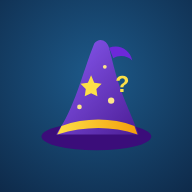
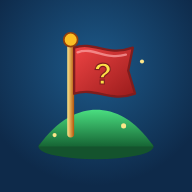
Ново име „Знаменосци“ и коледен дизайн от 1 декември до 6 януари
- Името на играта е сменено навсякъде, където се вижда: заглавия, манифест,
  имейли до родителите, поверителност, админ панел, README. Ключовете в
  localStorage и заглавките X-Quizzard остават, за да не се губят настройките.
- Ново лого и иконки със знаме вместо магьосническа шапка.
- season.js включва коледна тема сам през празниците (?season=xmas за преглед):
  сняг, светлини, шапка на логото, червено-зелени бутони, поздрав и „Джингъл белс“.

Claude-Session: https://claude.ai/code/session_01FRu3mSU7W2hqHJyDrDa8pC

Changed region(s): [[0.1875, 0.1562, 0.8125, 0.8438], [0.7188, 0.3125, 0.75, 0.3438]]

diff --git a/public/client.js b/public/client.js
@@ -1,4 +1,4 @@
-// Quizzard клиент: екрани, карта (SVG), въпроси, анимации и звуци.
+// Знаменосци клиент: екрани, карта (SVG), въпроси, анимации и звуци.
 // Сървърът решава всичко; клиентът само показва състоянието и изпраща ходове.
 const $ = (s) => document.querySelector(s);
 const $$ = (s) => [...document.querySelectorAll(s)];
@@ -77,9 +77,12 @@ const Sound = {
       case 'win': [523, 523, 523, 659, 784, 659, 784, 1047].forEach((f, i) => T(f, i === 7 ? 0.8 : 0.16, { type: 'square', at: i * 0.15, vol: 0.06 })); break;
     }
   },
-  // Кратка средновековна мелодия (ре дорийски), тиха, на кръг
-  MEL: [62, 65, 69, 67, 65, 64, 62, 0, 60, 64, 67, 65, 64, 62, 60, 0, 62, 65, 69, 72, 71, 69, 67, 0, 69, 67, 65, 64, 62, 64, 62, 0],
-  BASS: [38, 36, 41, 38],
+  // Кратка средновековна мелодия (ре дорийски), тиха, на кръг; през празниците (season.js) — „Джингъл белс“
+  MEL: document.documentElement.dataset.season === 'xmas'
+    ? [64, 64, 64, 0, 64, 64, 64, 0, 64, 67, 60, 62, 64, 0, 0, 0, 65, 65, 65, 65, 65, 64, 64, 64, 64, 62, 62, 64, 62, 0, 67, 0,
+      64, 64, 64, 0, 64, 64, 64, 0, 64, 67, 60, 62, 64, 0, 0, 0, 65, 65, 65, 65, 65, 64, 64, 64, 67, 67, 65, 62, 60, 0, 0, 0]
+    : [62, 65, 69, 67, 65, 64, 62, 0, 60, 64, 67, 65, 64, 62, 60, 0, 62, 65, 69, 72, 71, 69, 67, 0, 69, 67, 65, 64, 62, 64, 62, 0],
+  BASS: document.documentElement.dataset.season === 'xmas' ? [36, 41, 43, 36] : [38, 36, 41, 38],
   startMusic() {
     if (!this.music || this.musicTimer || !this.ac()) return;
     const hz = (m) => 440 * 2 ** ((m - 69) / 12);
@@ -174,7 +177,7 @@ $('#btnExit').onclick = () => { if (state?.phase === 'ended') send({ t: 'leave' 
 $('#leaveNo').onclick = () => $('#leaveOverlay').classList.add('hidden');
 $('#leaveYes').onclick = () => { $('#leaveOverlay').classList.add('hidden'); send({ t: 'leave' }); };
 $('#btnRules').onclick = () => {
-  openOverlay(`<div class="mhead"><h3>📜 Как се играе Quizzard?</h3></div><div class="mbody rules"><ol>
+  openOverlay(`<div class="mhead"><h3>📜 Как се играе „Знаменосци“?</h3></div><div class="mbody rules"><ol>
     <li>🏰 <b>Столица.</b> Всеки избира своята столица. Тя носи <b>1000 точки</b> и има <b>3 кули</b>.</li>
     <li>🗺 <b>Рунд 1: Завладяване.</b> Всички отговарят на въпрос с 4 отговора. Който познае, избира свободна област до своите. Всяка област носи <b>300 точки</b>.</li>
     <li>🎯 Ако познаят няколко, идва <b>въпрос с число</b>. Най-близкият взима 2 области, другите по 1. При еднакъв отговор печели по-бързият.</li>
@@ -686,7 +689,7 @@ const isIOS = /iphone|ipad|ipod/i.test(navigator.userAgent) && !window.navigator
 if (isIOS) $('#btnInstall').classList.remove('hidden');
 $('#btnInstall').onclick = async () => {
   if (installEvt) { installEvt.prompt(); await installEvt.userChoice.catch(() => {}); installEvt = null; $('#btnInstall').classList.add('hidden'); }
-  else openOverlay(`<div class="mhead"><h3>📲 Инсталирай Quizzard</h3></div><div class="mbody"><ol class="rules"><li>Натисни бутона <b>Сподели</b> (квадрат със стрелка) долу в Safari.</li><li>Избери <b>„Добави към началния екран“</b>.</li><li>Натисни <b>„Добави“</b>. Иконката с шапката ще се появи на екрана.</li></ol><button class="btn gold big" id="instOk" style="width:100%">Разбрах!</button></div>`), ($('#instOk').onclick = closeOverlay);
+  else openOverlay(`<div class="mhead"><h3>📲 Инсталирай „Знаменосци“</h3></div><div class="mbody"><ol class="rules"><li>Натисни бутона <b>Сподели</b> (квадрат със стрелка) долу в Safari.</li><li>Избери <b>„Добави към началния екран“</b>.</li><li>Натисни <b>„Добави“</b>. Иконката с шапката ще се появи на екрана.</li></ol><button class="btn gold big" id="instOk" style="width:100%">Разбрах!</button></div>`), ($('#instOk').onclick = closeOverlay);
 };
 
 // ---------- докладване на проблем ----------

diff --git a/server/admin/parents.js b/server/admin/parents.js
@@ -39,13 +39,13 @@ class Parents {
     if (!mail.enabled() || !u.email || u.consentAt) return { skipped: true };
     u.consentToken ||= tok(); u.consentAskedAt = new Date().toISOString(); this.store.touch('players');
     const B = this.base(), e = mail.esc;
-    return this.send(u.email, `Потвърдете профила на ${u.name} в Quizzard`, 'Потвърдете профила на детето',
-      `<p>Здравейте! Във Quizzard, образователна игра с въпроси за 1.–4. клас, е направен профил <b>„${e(u.name)}“</b> с вашия имейл.</p>
+    return this.send(u.email, `Потвърдете профила на ${u.name} в „Знаменосци“`, 'Потвърдете профила на детето',
+      `<p>Здравейте! В „Знаменосци“, образователна игра с въпроси за 1.–4. клас, е направен профил <b>„${e(u.name)}“</b> с вашия имейл.</p>
        <p>Децата под 14 години могат да имат профил само със съгласие от родител. С профила детето пази нивата, значките и резултатите си. Пазим само потребителското име, паролата (криптирана), имейла ви и резултатите от играта.</p>
        ${mail.button(`${B}/consent.html#${u.consentToken}`, 'Прегледай и потвърди')}
        <p>Ако не сте вие или не сте съгласни, отворете линка и изберете „Изтрий профила“. Без потвърждение профилът се изтрива сам след ${CONSENT_DAYS} дни.</p>
        <p style="font-size:13px">След потвърждение ще получавате кратък отчет всеки понеделник. Можете да го спрете с един клик от всяко писмо.</p>`,
-      `Потвърдете профила „${u.name}“ в Quizzard: ${B}/consent.html#${u.consentToken}`);
+      `Потвърдете профила „${u.name}“ в „Знаменосци“: ${B}/consent.html#${u.consentToken}`);
   }
   byConsent(t) { return Object.values(this.acc.users).find((u) => eqTok(u.consentToken, t)) || null; }
 
@@ -59,8 +59,8 @@ class Parents {
     if (users.length) this.store.touch('players');
     const B = this.base(), e = mail.esc;
     for (const [to, list] of Object.entries(byMail)) {
-      await this.send(to, 'Нова парола за Quizzard', 'Нова парола',
-        `<p>Някой поиска нова парола за ${list.length > 1 ? 'профилите' : 'профила'} в Quizzard с този имейл.</p>
+      await this.send(to, 'Нова парола за „Знаменосци“', 'Нова парола',
+        `<p>Някой поиска нова парола за ${list.length > 1 ? 'профилите' : 'профила'} в „Знаменосци“ с този имейл.</p>
          ${list.map((u) => `<p><b>${e(u.name)}</b></p>${mail.button(`${B}/reset.html#${u.reset.token}`, 'Нова парола за ' + u.name)}`).join('')}
          <p>Линкът важи 1 час. Ако не сте поискали нова парола, просто не правете нищо.</p>`,
         list.map((u) => `${u.name}: ${B}/reset.html#${u.reset.token}`).join('\n'));
@@ -99,7 +99,7 @@ class Parents {
           ${weak.length ? `<p>💡 Има нужда от помощ при: ${weak.map((x) => `${e(SUBJ[x.s] || x.s)} (${x.p}%)`).join(', ')}</p>` : ''}
           ${mail.button(link, 'Виж грешките и целия отчет')}`;
       }).join('');
-      const out = await this.send(to, `Седмицата в Quizzard: ${list.map((x) => x.u.name).join(', ')}`, 'Какво упражнява детето миналата седмица',
+      const out = await this.send(to, `Седмицата в „Знаменосци“: ${list.map((x) => x.u.name).join(', ')}`, 'Какво упражнява детето миналата седмица',
         `${blocks}<p style="font-size:12px"><a href="${e(this.offLink(to))}" style="color:#7a5c3e">Не искам седмичен отчет</a></p>`,
         list.map(({ u, r }) => `${u.name}: ${r.answers} отговора, ${pct(r.correct, r.answers)}% верни`).join('\n') + `\nСпиране: ${this.offLink(to)}`);
       if (!out.error) sent++;

diff --git a/public/privacy.html b/public/privacy.html
@@ -3,7 +3,7 @@
 <head>
   <meta charset="utf-8">
   <meta name="viewport" content="width=device-width, initial-scale=1">
-  <title>Quizzard · Поверителност</title>
+  <title>Знаменосци · Поверителност</title>
   <link rel="icon" href="logo.svg" type="image/svg+xml">
   <link href="/fonts/fonts.css" rel="stylesheet">
   <link rel="stylesheet" href="style.css">
@@ -15,7 +15,7 @@
     <a href="/" class="qx-back-link">← Към играта</a>
     <article class="qx-paper">
       <h1>🔒 Как пазим данните на детето</h1>
-      <p class="qx-lead">Quizzard е образователна игра за деца от 1. до 4. клас. Играта работи и <b>без профил</b>. Ако детето си направи профил, пазим възможно най-малко: измислено потребителско име, парола и <b>имейла на родителя</b>. Не искаме истинско име, телефон, адрес или дата на раждане на детето.</p>
+      <p class="qx-lead">„Знаменосци“ е образователна игра за деца от 1. до 4. клас. Играта работи и <b>без профил</b>. Ако детето си направи профил, пазим възможно най-малко: измислено потребителско име, парола и <b>имейла на родителя</b>. Не искаме истинско име, телефон, адрес или дата на раждане на детето.</p>
       <p class="qx-note">Тази страница е за родители и учители. Последна промяна: октомври 2026 г.</p>
 
       <h2>Какво пазим, ако детето има профил</h2>
@@ -59,7 +59,7 @@
       </ul>
 
       <h2>Къде се пазят данните</h2>
-      <p>Играта работи на сървър при Render. Профилите и резултатите се пазят в частно хранилище в GitHub, до което има достъп само екипът на Quizzard. Писмата до родителите се изпращат чрез Resend. Render, GitHub и Resend са компании от САЩ; те обработват данните по наше указание и по стандартните договорни клаузи на ЕС. Връзката навсякъде е криптирана (HTTPS).</p>
+      <p>Играта работи на сървър при Render. Профилите и резултатите се пазят в частно хранилище в GitHub, до което има достъп само екипът на „Знаменосци“. Писмата до родителите се изпращат чрез Resend. Render, GitHub и Resend са компании от САЩ; те обработват данните по наше указание и по стандартните договорни клаузи на ЕС. Връзката навсякъде е криптирана (HTTPS).</p>
 
       <h2>Колко време пазим данните</h2>
       <ul>
@@ -88,7 +88,7 @@
       <p>Имате право да видите данните (изтегляне като файл), да ги поправите, да ги изтриете, да ограничите обработката им, да възразите и да оттеглите съгласието си. Имате право и да подадете жалба до Комисията за защита на личните данни (<a href="https://www.cpdp.bg" rel="noopener" target="_blank">www.cpdp.bg</a>).</p>
 
       <h2>Кой отговаря за данните и връзка с нас</h2>
-      <p id="controller">Администратор на данните: екипът на Quizzard.</p>
+      <p id="controller">Администратор на данните: екипът на „Знаменосци“.</p>
       <p id="contact" class="qx-contact"></p>
     </article>
   </main>

diff --git a/public/index.html b/public/index.html
@@ -3,16 +3,17 @@
 <head>
   <meta charset="utf-8">
   <meta name="viewport" content="width=device-width, initial-scale=1, maximum-scale=1">
-  <title>Quizzard — завладей България със знания</title>
-  <meta name="description" content="Quizzard: куиз игра с карта на България за 1–4 клас. Играй онлайн, с приятели или с ботове.">
+  <title>Знаменосци — завладей България със знания</title>
+  <meta name="description" content="Знаменосци: куиз игра с карта на България за 1–4 клас. Играй онлайн, с приятели или с ботове.">
   <link rel="icon" href="logo.svg" type="image/svg+xml">
   <link rel="manifest" href="manifest.webmanifest">
   <link rel="apple-touch-icon" href="icon-192.png">
   <meta name="theme-color" content="#0e2a4a">
   <meta name="apple-mobile-web-app-capable" content="yes">
   <meta name="mobile-web-app-capable" content="yes">
-  <meta name="apple-mobile-web-app-title" content="Quizzard">
+  <meta name="apple-mobile-web-app-title" content="Знаменосци">
   <meta name="apple-mobile-web-app-status-bar-style" content="black-translucent">
+  <script src="season.js"></script>
   <link href="/fonts/fonts.css" rel="stylesheet">
   <link rel="stylesheet" href="style.css">
   <link rel="stylesheet" href="extras.css">
@@ -25,7 +26,7 @@
     <div class="hero">
       <div class="brand">
         <img src="logo.svg" alt="" class="brand-logo">
-        <h1 class="brand-name">Quizzard</h1>
+        <h1 class="brand-name">Знаменосци</h1>
       </div>
       <p class="tagline">Отговаряй на въпроси, завладей областите и спечели войната за България!</p>
 
@@ -88,7 +89,7 @@
 
   <!-- Стая -->
   <section id="lobby" class="screen hidden">
-    <div class="mini-brand center"><img src="logo.svg" alt=""><span>Quizzard</span></div>
+    <div class="mini-brand center"><img src="logo.svg" alt=""><span>Знаменосци</span></div>
     <div class="panel lobby-card">
       <div id="lobbyHead" class="room-head"></div>
       <ul id="members" class="members"></ul>
@@ -112,7 +113,7 @@
 
   <!-- Упражнение и предизвикателство на деня -->
   <section id="practice" class="screen hidden">
-    <div class="mini-brand center"><img src="logo.svg" alt=""><span>Quizzard</span></div>
+    <div class="mini-brand center"><img src="logo.svg" alt=""><span>Знаменосци</span></div>
     <div id="practiceCard" class="panel practice-card"></div>
   </section>
 
@@ -164,7 +165,7 @@
   <div id="rotate" class="rotate" role="alert">
     <div class="rot-device" aria-hidden="true"><i></i></div>
     <b>Завърти устройството</b>
-    <span>Quizzard се играе хоризонтално, за да се вижда цялата карта.</span>
+    <span>„Знаменосци“ се играе хоризонтално, за да се вижда цялата карта.</span>
     <button id="btnRotate" class="btn gold big hidden">↻ Завърти на цял екран</button>
   </div>
   <div id="toast" class="toast hidden"></div>

diff --git a/public/style.css b/public/style.css
@@ -1,4 +1,4 @@
-/* Quizzard — средновековен стил: море, пергаментова карта, дърво и злато */
+/* Знаменосци — средновековен стил: море, пергаментова карта, дърво и злато */
 :root {
   --sea1: #0e2a4a; --sea2: #154a73; --parch: #f4e4bc; --parch2: #e6cf98; --ink: #3a2414; --muted: #7a5c3e;
   --wood1: #7a4a22; --wood2: #4e2c12; --gold1: #ffe08a; --gold2: #f2b632; --gold3: #b07a12;
@@ -474,3 +474,28 @@ details.an summary { cursor: pointer; font-weight: 900; color: var(--wood2); pad
   .overlay.dock { justify-content: flex-end; align-items: center; }
   .overlay.dock .modal { width: min(380px, 46vw); max-height: 96vh; }
 }
+
+/* ---------- коледна украса (season.js слага data-season="xmas" от 1 декември до 6 януари) ---------- */
+html[data-season="xmas"] { --sea1: #0b1d3a; --sea2: #1d3f6e; --wood1: #9b1c1c; --wood2: #5f0f0f; }
+html[data-season="xmas"] .bg { background:
+    radial-gradient(ellipse at 50% 25%, rgba(160, 200, 255, .3), transparent 60%),
+    radial-gradient(ellipse at 80% 100%, rgba(255, 255, 255, .18), transparent 50%),
+    linear-gradient(180deg, var(--sea2), var(--sea1)); }
+.xmas { position: fixed; inset: 0; z-index: -1; pointer-events: none; overflow: hidden; }
+.xmas-snow { position: absolute; inset: -200px 0 0; background-image:
+    radial-gradient(circle, #fff 0 2px, transparent 2.5px), radial-gradient(circle, rgba(255,255,255,.85) 0 1.5px, transparent 2px),
+    radial-gradient(circle, rgba(255,255,255,.7) 0 3px, transparent 3.5px);
+  background-size: 120px 120px, 80px 90px, 200px 170px; background-position: 0 0, 40px 30px, 90px 60px; animation: snow 14s linear infinite; }
+.xmas-snow.far { opacity: .5; background-size: 60px 60px, 47px 53px, 95px 85px; animation-duration: 26s; }
+@keyframes snow { to { background-position: 30px 600px, 0 540px, 120px 680px; } }
+.xmas-lights { position: absolute; top: 0; left: 0; right: 0; height: 22px;
+  background: radial-gradient(circle at 12px 14px, #ff4d4d 0 5px, transparent 6px) 0 0 / 96px 22px,
+    radial-gradient(circle at 36px 14px, #ffd84d 0 5px, transparent 6px) 0 0 / 96px 22px,
+    radial-gradient(circle at 60px 14px, #4dff88 0 5px, transparent 6px) 0 0 / 96px 22px,
+    radial-gradient(circle at 84px 14px, #4db8ff 0 5px, transparent 6px) 0 0 / 96px 22px,
+    linear-gradient(180deg, transparent 6px, rgba(20, 60, 30, .9) 6px 8px, transparent 8px);
+  filter: drop-shadow(0 0 6px rgba(255, 240, 180, .8)); animation: twinkle 1.6s steps(2) infinite; }
+@keyframes twinkle { 50% { filter: drop-shadow(0 0 2px rgba(255, 240, 180, .3)) brightness(.75); } }
+html[data-season="xmas"] .panel { border-top-color: #f4f8ff; box-shadow: var(--shadow), inset 0 0 0 2px var(--gold2), inset 0 0 30px rgba(120, 70, 20, .25), 0 -3px 0 #fff; }
+html[data-season="xmas"] .seg button.on { background: linear-gradient(180deg, #2f8f4e, #1d6b37); border-color: #134a25; box-shadow: 0 3px 0 #134a25; }
+@media (prefers-reduced-motion: reduce) { .xmas-snow, .xmas-lights { animation: none; } }

diff --git a/public/admin/admin.js b/public/admin/admin.js
@@ -1,4 +1,4 @@
-// Quizzard · админ панел (без рамки, само браузърен JS)
+// Знаменосци · админ панел (без рамки, само браузърен JS)
 'use strict';
 const $ = (s, el = document) => el.querySelector(s);
 const $$ = (s, el = document) => [...el.querySelectorAll(s)];
@@ -119,7 +119,7 @@ async function route() {
   const id = page();
   const p = PAGES.find((x) => x.id === id) || PAGES[1];
   $('#pageTitle').textContent = p.title;
-  document.title = `${p.title} · Quizzard админ`;
+  document.title = `${p.title} · Знаменосци админ`;
   $('#side').classList.remove('open');
   renderNav();
   const view = $('#view');
@@ -753,7 +753,7 @@ VIEWS.settings = async (view) => {
       ${Object.entries(SUBJ).map(([k, v]) => `<label class="switch" style="display:flex;margin:8px 0"><input type="checkbox" class="subjOn" value="${k}" ${s.disabledSubjects.includes(k) ? '' : 'checked'}> ${SUBJ_ICON[k]} ${v}</label>`).join('')}</div>
     <div class="card"><h3>🔒 Родители и лични данни</h3><p class="muted" style="margin-top:-4px">Показва се на <a href="/privacy.html" target="_blank">страницата за поверителност</a>.</p>
       <label class="field"><span>Кой отговаря за данните</span><input id="sController" value="${h(s.controller)}" maxlength="160" placeholder="напр. Иван Иванов или „Квизард“ ЕООД, гр. София"></label>
-      <label class="field"><span>Връзка за родители</span><input id="sContact" value="${h(s.contact)}" maxlength="120" placeholder="напр. roditeli@quizzard.bg"></label>
+      <label class="field"><span>Връзка за родители</span><input id="sContact" value="${h(s.contact)}" maxlength="120" placeholder="напр. roditeli@znamenostsi.bg"></label>
       ${num('sRetention', 'Профил без вход се изтрива след', s.retentionMonths, 6, 60, 'месеца', 'непотвърдените от родител се изтриват след 30 дни')}
       <div class="field"><span>Имейли до родителите</span>${mailInfo.on ? `<div class="banner ok" style="margin:0">✅ Включени. Линковете в писмата водят към <b>${h(mailInfo.base)}</b></div>` : '<div class="banner warn" style="margin:0">⚠ Изключени: задай RESEND_API_KEY и MAIL_FROM в Render. Дотогава профилите работят без потвърждение по имейл и няма „Забравена парола“.</div>'}</div>
       <div class="row"><button class="btn" id="sWeekly" ${mailInfo.on ? '' : 'disabled'}>📧 Изпрати седмичния отчет сега</button><button class="btn" id="sSweep">🧹 Изтрий старите профили сега</button></div></div>

diff --git a/server/admin/accounts.js b/server/admin/accounts.js
@@ -252,7 +252,7 @@ function json(res, code, body, headers = {}) {
 }
 function html(res, code, text) {
   res.writeHead(code, { 'Content-Type': 'text/html; charset=utf-8', 'Cache-Control': 'no-store' });
-  res.end(`<!doctype html><meta charset="utf-8"><meta name="viewport" content="width=device-width,initial-scale=1"><title>Quizzard</title><body style="font-family:sans-serif;max-width:520px;margin:40px auto;padding:0 16px;line-height:1.5"><h1>🧙 Quizzard</h1><p>${String(text).replace(/[<>&]/g, '')}</p><p><a href="/">Към играта</a></p></body>`);
+  res.end(`<!doctype html><meta charset="utf-8"><meta name="viewport" content="width=device-width,initial-scale=1"><title>Знаменосци</title><body style="font-family:sans-serif;max-width:520px;margin:40px auto;padding:0 16px;line-height:1.5"><h1>🚩 Знаменосци</h1><p>${String(text).replace(/[<>&]/g, '')}</p><p><a href="/">Към играта</a></p></body>`);
 }
 async function handlePublic(acc, req, res, url, readBody) {
   const p = url.pathname;
@@ -314,7 +314,7 @@ async function handlePublic(acc, req, res, url, readBody) {
   }
   if (p === '/api/account/export') {
     if (!me) return json(res, 401, { error: 'Първо влез в профила си.' });
-    return json(res, 200, acc.exportData(me), { 'Content-Disposition': 'attachment; filename="quizzard-moite-danni.json"' });
+    return json(res, 200, acc.exportData(me), { 'Content-Disposition': 'attachment; filename="znamenostsi-moite-danni.json"' });
   }
   if (p === '/api/account/delete' && post) {
     if (!me) return json(res, 401, { error: 'Първо влез в профила си.' });
@@ -329,7 +329,7 @@ async function handlePublic(acc, req, res, url, readBody) {
     if (acc.limited('parent:' + ip, 60, 600000)) return json(res, 429, { error: 'Твърде много опити. Изчакай малко.' });
     const u = L.byParentToken(par[1]);
     if (!u) return json(res, 404, { error: 'Линкът не е валиден. Може детето да е направило нов линк или профилът да е изтрит.' });
-    if (par[2] === '/export') return json(res, 200, acc.exportData(u), { 'Content-Disposition': 'attachment; filename="quizzard-danni.json"' });
+    if (par[2] === '/export') return json(res, 200, acc.exportData(u), { 'Content-Disposition': 'attachment; filename="znamenostsi-danni.json"' });
     if (par[2] === '/delete' && post) { acc.deleteUser(u.id); await acc.store.flush(); return json(res, 200, { ok: true }); }
     return json(res, 200, { report: L.report(u) });
   }

diff --git a/public/consent.html b/public/consent.html
@@ -5,7 +5,7 @@
   <meta name="viewport" content="width=device-width, initial-scale=1">
   <meta name="robots" content="noindex">
   <meta name="referrer" content="no-referrer">
-  <title>Quizzard · Съгласие на родителя</title>
+  <title>Знаменосци · Съгласие на родителя</title>
   <link rel="icon" href="logo.svg" type="image/svg+xml">
   <link href="/fonts/fonts.css" rel="stylesheet">
   <link rel="stylesheet" href="style.css">
@@ -32,9 +32,9 @@
     if (!token) { out.innerHTML = '<h1>Съгласие на родителя</h1><p>Отворете линка от писмото, което ви изпратихме.</p>'; return; }
     api('GET').then((d) => {
       if (d.confirmed) return done(d);
-      out.innerHTML = `<h1>👋 Профил на дете в Quizzard</h1>
+      out.innerHTML = `<h1>👋 Профил на дете в „Знаменосци“</h1>
         <p class="qx-lead">С имейла <b>${esc(d.email)}</b> е направен профил <b>„${esc(d.name)}“</b>${d.grade ? ` за ${d.grade} клас` : ''} на ${new Date(d.createdAt).toLocaleDateString('bg-BG')}</p>
-        <p>Quizzard е образователна игра с въпроси по учебните предмети за 1.–4. клас. С профила детето пази нивата, значките и резултатите си и може да участва в турнири между класове.</p>
+        <p>„Знаменосци“ е образователна игра с въпроси по учебните предмети за 1.–4. клас. С профила детето пази нивата, значките и резултатите си и може да участва в турнири между класове.</p>
         <h2>Какво пазим</h2>
         <ul><li>Измисленото потребителско име и паролата (криптирана)</li><li>Вашия имейл</li><li>Резултатите от играта и последните до 40 грешни отговора, за да ви показваме къде детето има нужда от помощ</li><li>Аватар, а снимка само ако детето качи и ние одобрим</li></ul>
         <p>Не искаме истинско име, адрес или телефон и не даваме данните на никого. <a href="/privacy.html" target="_blank">Цялата информация за поверителност →</a></p>

diff --git a/server/admin/mail.js b/server/admin/mail.js
@@ -1,4 +1,4 @@
-// Изпращане на имейли през Resend (https://resend.com): RESEND_API_KEY + MAIL_FROM (напр. "Quizzard <noreply@quizzard.bg>").
+// Изпращане на имейли през Resend (https://resend.com): RESEND_API_KEY + MAIL_FROM (напр. "Знаменосци <noreply@znamenostsi.bg>").
 // Без тях имейли не се пращат и сайтът работи без потвърждение от родител.
 // MAIL_OUTBOX=<папка> записва писмата като файлове вместо да ги праща (за тестове).
 const fs = require('fs');
@@ -26,8 +26,8 @@ const esc = (s) => String(s ?? '').replace(/[&<>"']/g, (c) => ({ '&': '&amp;', '
 function layout(title, body) {
   return `<!doctype html><html lang="bg"><body style="margin:0;background:#0e2a4a;padding:24px;font-family:Arial,sans-serif">
   <div style="max-width:560px;margin:0 auto;background:#f4e4bc;border-radius:16px;padding:24px;color:#3a2414">
-  <h1 style="margin:0 0 12px;font-size:22px">🧙 Quizzard</h1><h2 style="font-size:18px;margin:0 0 12px">${esc(title)}</h2>${body}
-  <p style="font-size:12px;color:#7a5c3e;margin-top:24px">Получавате това писмо, защото имейлът ви е посочен при регистрация на дете в Quizzard. <a href="{{BASE}}/privacy.html" style="color:#7a5c3e">Поверителност</a></p></div></body></html>`;
+  <h1 style="margin:0 0 12px;font-size:22px">🚩 Знаменосци</h1><h2 style="font-size:18px;margin:0 0 12px">${esc(title)}</h2>${body}
+  <p style="font-size:12px;color:#7a5c3e;margin-top:24px">Получавате това писмо, защото имейлът ви е посочен при регистрация на дете в „Знаменосци“. <a href="{{BASE}}/privacy.html" style="color:#7a5c3e">Поверителност</a></p></div></body></html>`;
 }
 const button = (href, label) => `<p style="margin:20px 0"><a href="${esc(href)}" style="background:#f2b632;color:#3a2414;padding:12px 18px;border-radius:10px;text-decoration:none;font-weight:bold;display:inline-block">${esc(label)}</a></p>`;
 

diff --git a/server/admin/index.js b/server/admin/index.js
@@ -422,7 +422,7 @@ async function api(method, route, qs, body, res) {
     if (qs.get('subject')) list = list.filter((q) => q.subject === qs.get('subject'));
     list.sort((x, y) => x.subject.localeCompare(y.subject) || x.grade - y.grade);
     const head = kind === 'mc' ? '# клас|предмет|въпрос|ВЕРЕН|грешен|грешен|грешен' : '# клас|предмет|въпрос|отговор';
-    res.writeHead(200, { 'Content-Type': 'text/plain; charset=utf-8', 'Content-Disposition': `attachment; filename="quizzard_${kind}_${scope}.txt"` });
+    res.writeHead(200, { 'Content-Type': 'text/plain; charset=utf-8', 'Content-Disposition': `attachment; filename="znamenostsi_${kind}_${scope}.txt"` });
     res.end([head, ...list.map(toLine)].join('\n') + '\n');
     return undefined;
   }
@@ -531,7 +531,7 @@ async function api(method, route, qs, body, res) {
     }
     if (method === 'GET' && r2 === 'export') {
       audit('player-export', null, null, null, { label: u.name });
-      res.writeHead(200, { 'Content-Type': 'application/json; charset=utf-8', 'Content-Disposition': `attachment; filename="quizzard-${u.id}.json"` });
+      res.writeHead(200, { 'Content-Type': 'application/json; charset=utf-8', 'Content-Disposition': `attachment; filename="znamenostsi-${u.id}.json"` });
       res.end(JSON.stringify(accounts.exportData(u), null, 2));
       return undefined;
     }
@@ -643,7 +643,7 @@ async function api(method, route, qs, body, res) {
 
   // ----- архив -----
   if (r0 === 'backup' && method === 'GET') {
-    res.writeHead(200, { 'Content-Type': 'application/json; charset=utf-8', 'Content-Disposition': `attachment; filename="quizzard-backup-${today()}.json"` });
+    res.writeHead(200, { 'Content-Type': 'application/json; charset=utf-8', 'Content-Disposition': `attachment; filename="znamenostsi-backup-${today()}.json"` });
     res.end(JSON.stringify({ version: 1, at: new Date().toISOString(), content: c, activity: a, players: store.get('players'), community: store.get('community'), avatars: store.get('avatars') }));
     return undefined;
   }

diff --git a/public/season.js b/public/season.js
@@ -1,0 +1,23 @@
+// Сезонна украса: от 1 декември до 6 януари играта сама минава на коледен дизайн.
+// За преглед по всяко време: ?season=xmas (или ?season=off, за да се изключи).
+(function () {
+  var q = new URLSearchParams(location.search).get('season');
+  var d = new Date(), m = d.getMonth(), day = d.getDate();
+  var xmas = q ? q === 'xmas' : m === 11 || (m === 0 && day <= 6);
+  if (!xmas) return;
+  var root = document.documentElement;
+  root.dataset.season = 'xmas';
+  var meta = document.querySelector('meta[name="theme-color"]');
+  if (meta) meta.content = '#0b1d3a';
+  document.addEventListener('DOMContentLoaded', function () {
+    var bg = document.querySelector('.bg');
+    var deco = document.createElement('div');
+    deco.className = 'xmas'; deco.setAttribute('aria-hidden', 'true');
+    deco.innerHTML = '<div class="xmas-lights"></div><div class="xmas-snow"></div><div class="xmas-snow far"></div>';
+    if (bg) bg.after(deco); else document.body.prepend(deco);
+    var logos = document.querySelectorAll('img[src$="logo.svg"]');
+    for (var i = 0; i < logos.length; i++) logos[i].src = logos[i].getAttribute('src').replace(/logo\.svg$/, 'logo-xmas.svg');
+    var tag = document.querySelector('.tagline');
+    if (tag) tag.textContent = '🎄 Весела Коледа! Завладей заснежена България със знания! 🎁';
+  });
+})();

diff --git a/public/admin/index.html b/public/admin/index.html
@@ -4,7 +4,7 @@
   <meta charset="utf-8">
   <meta name="viewport" content="width=device-width, initial-scale=1">
   <meta name="robots" content="noindex">
-  <title>Quizzard · Админ панел</title>
+  <title>Знаменосци · Админ панел</title>
   <link rel="icon" href="../logo.svg" type="image/svg+xml">
   <link href="/fonts/fonts.css" rel="stylesheet">
   <link rel="stylesheet" href="admin.css">
@@ -14,7 +14,7 @@
   <section id="login" class="login hidden">
     <form id="loginForm" class="login-card">
       <img src="../logo.svg" alt="" class="login-logo">
-      <h1>Quizzard</h1>
+      <h1>Знаменосци</h1>
       <p class="muted">Админ панел</p>
       <label class="field"><span>Парола</span><input id="password" type="password" autocomplete="current-password" required autofocus></label>
       <button class="btn primary wide" type="submit">Вход</button>
@@ -26,7 +26,7 @@
   <!-- Панел -->
   <div id="app" class="app hidden">
     <aside class="side" id="side">
-      <a class="brand" href="#dashboard"><img src="../logo.svg" alt=""><span>Quizzard</span></a>
+      <a class="brand" href="#dashboard"><img src="../logo.svg" alt=""><span>Знаменосци</span></a>
       <nav id="nav"></nav>
       <div class="side-foot">
         <a href="/" target="_blank" class="side-link">🎮 Отвори играта</a>
